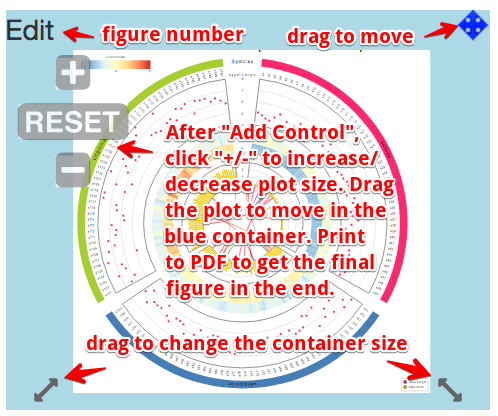
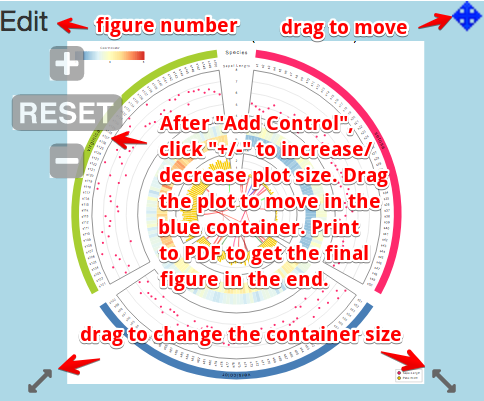
Add dist/savehtml.css, dist/FileSaver.min.js

diff --git a/index.html b/index.html
@@ -23,16 +23,17 @@
 	<script src="dist/gridstack.jQueryUI.js"></script>
 	<script src="dist/dropzone.js"></script>
 	<script src="dist/svg-pan-zoom.js"></script>
+	<script src="dist/FileSaver.min.js"></script>
 
 	<style type="text/css">
 		.dropzone {
 			background: white;
 			border-radius: 5px;
-			padding: 0px 10px;
+			padding: 10px 10px;
 			border: 2px dashed rgb(0, 135, 247);
 			border-image: none;
 			max-width: 200px;
-			height: 180px;
+			height: 200px;
 			margin-left: auto;
 			margin-right: auto;
 		}
@@ -41,7 +42,7 @@
 		}
 
 		.trash {
-			height: 160px;
+			height: 200px;
 //			background-color: #f5f5f5 !important;
 		}
 
@@ -81,24 +82,26 @@
 <body>
 <div class="container">
 	<div class="row no-print">
+		<div align=center>
+			<a class="btn btn-default" id="add-new-Plot">Add Plot</a>
+			<a class="btn btn-default" id="add-new-Control">Add Control</a>
+			<a class="btn btn-default" id="save-HTML">Save HTML</a>
+			<a class="btn btn-default" href=demo1.html>Demo1</a>
+			<a class="btn btn-default" href=demo2.html>Demo2</a>
+			<a class="btn btn-default" href=demo3.html>Demo3</a>
+			<a class="btn btn-default" href=https://baohongz.github.io/canvasDesigner/demo_video.html>Help</a>
+		</div>
+	</div>
+	<div class="row no-print" style="padding-top:5px">
 		<div align=center class="col-xs-4">
 			<FORM class="dropzone needsclick" id="dropzoneUpload" action="/">
 			<div class="dz-message needsclick">Drop a SVG file here or click to upload. Then click "Add Plot" to add to the designing canvas. Note: use Inkscape to convert PNG, JPG, GIF, TIFF to SVG format.</div>
 			</FORM>
-			<a href=demo1.html>Demo1</a> | <a href=demo2.html>Demo2 | <a href=demo3.html>Demo3</a>
 		</div>
 		<div align=center class="col-xs-4">
-			<table border=0>
-			<tr>
-			<td><a class="btn btn-default" id="add-new-Plot">Add Plot</a></td>
-			<td><a class="btn btn-default" id="add-new-Control">Add Control</a></td>
-			</tr>
-			<tr>
-			<td style="padding-top: 8px;" colspan=2><div class="trash"></div></td>
-			</tr>
-			</table>
+			<div class="trash"></div>
 		</div>
-		<div align=center class="col-xs-4"><a href=demo_video.html><img width=240 height=200 src=canvasDesigner_help.png></a></div>
+		<div align=center class="col-xs-4"><img width=240 height=200 src=canvasDesigner_help.png></div>
 	</div> 
 	<div class="row"> <div class="grid-stack">
 	</div></div>
@@ -203,6 +206,7 @@
 
 		$('#add-new-Plot').click(this.addNewWidget);
 
+
 		$('#add-new-Control').click( function () {
 			for (var i=1; i<num; i++) {
 				var myImg = "image"+i;
@@ -224,6 +228,13 @@
 					controlIconsEnabled:true
 				});
 			}
+		});
+
+		$('#save-HTML').click( function () {
+			var text = $("#textarea").val();
+			var filename = $("#input-fileName").val()
+			var blob = new Blob([text], {type: "text/plain;charset=utf-8"});
+			saveAs(blob, filename+".txt");
 		});
 	});
 

diff --git a/dist/FileSaver.min.js b/dist/FileSaver.min.js
@@ -1,0 +1,2 @@
+/*! @source http://purl.eligrey.com/github/FileSaver.js/blob/master/FileSaver.js */
+var saveAs=saveAs||function(e){"use strict";if(typeof e==="undefined"||typeof navigator!=="undefined"&&/MSIE [1-9]\./.test(navigator.userAgent)){return}var t=e.document,n=function(){return e.URL||e.webkitURL||e},r=t.createElementNS("http://www.w3.org/1999/xhtml","a"),o="download"in r,a=function(e){var t=new MouseEvent("click");e.dispatchEvent(t)},i=/constructor/i.test(e.HTMLElement)||e.safari,f=/CriOS\/[\d]+/.test(navigator.userAgent),u=function(t){(e.setImmediate||e.setTimeout)(function(){throw t},0)},s="application/octet-stream",d=1e3*40,c=function(e){var t=function(){if(typeof e==="string"){n().revokeObjectURL(e)}else{e.remove()}};setTimeout(t,d)},l=function(e,t,n){t=[].concat(t);var r=t.length;while(r--){var o=e["on"+t[r]];if(typeof o==="function"){try{o.call(e,n||e)}catch(a){u(a)}}}},p=function(e){if(/^\s*(?:text\/\S*|application\/xml|\S*\/\S*\+xml)\s*;.*charset\s*=\s*utf-8/i.test(e.type)){return new Blob([String.fromCharCode(65279),e],{type:e.type})}return e},v=function(t,u,d){if(!d){t=p(t)}var v=this,w=t.type,m=w===s,y,h=function(){l(v,"writestart progress write writeend".split(" "))},S=function(){if((f||m&&i)&&e.FileReader){var r=new FileReader;r.onloadend=function(){var t=f?r.result:r.result.replace(/^data:[^;]*;/,"data:attachment/file;");var n=e.open(t,"_blank");if(!n)e.location.href=t;t=undefined;v.readyState=v.DONE;h()};r.readAsDataURL(t);v.readyState=v.INIT;return}if(!y){y=n().createObjectURL(t)}if(m){e.location.href=y}else{var o=e.open(y,"_blank");if(!o){e.location.href=y}}v.readyState=v.DONE;h();c(y)};v.readyState=v.INIT;if(o){y=n().createObjectURL(t);setTimeout(function(){r.href=y;r.download=u;a(r);h();c(y);v.readyState=v.DONE});return}S()},w=v.prototype,m=function(e,t,n){return new v(e,t||e.name||"download",n)};if(typeof navigator!=="undefined"&&navigator.msSaveOrOpenBlob){return function(e,t,n){t=t||e.name||"download";if(!n){e=p(e)}return navigator.msSaveOrOpenBlob(e,t)}}w.abort=function(){};w.readyState=w.INIT=0;w.WRITING=1;w.DONE=2;w.error=w.onwritestart=w.onprogress=w.onwrite=w.onabort=w.onerror=w.onwriteend=null;return m}(typeof self!=="undefined"&&self||typeof window!=="undefined"&&window||this.content);if(typeof module!=="undefined"&&module.exports){module.exports.saveAs=saveAs}else if(typeof define!=="undefined"&&define!==null&&define.amd!==null){define("FileSaver.js",function(){return saveAs})}

diff --git a/dist/svg-pan-zoom.js b/dist/svg-pan-zoom.js
@@ -63,7 +63,7 @@ module.exports = {
 , _createZoomIn: function(instance) {
     var zoomIn = document.createElementNS(SvgUtils.svgNS, 'g');
     zoomIn.setAttribute('id', 'svg-pan-zoom-zoom-in');
-    zoomIn.setAttribute('transform', 'translate('+(45.5 - instance.width)+' -160) scale(0.015)');  //Baohong: changed the postion of controls
+    zoomIn.setAttribute('transform', 'translate(30.5 5) scale(0.015)');
     zoomIn.setAttribute('class', 'svg-pan-zoom-control');
     zoomIn.addEventListener('click', function() {instance.getPublicInstance().zoomIn()}, false)
     zoomIn.addEventListener('touchstart', function() {instance.getPublicInstance().zoomIn()}, false)
@@ -88,7 +88,7 @@ module.exports = {
     // reset
     var resetPanZoomControl = document.createElementNS(SvgUtils.svgNS, 'g');
     resetPanZoomControl.setAttribute('id', 'svg-pan-zoom-reset-pan-zoom');
-    resetPanZoomControl.setAttribute('transform', 'translate('+(20-instance.width)+' -130) scale(0.4)');
+    resetPanZoomControl.setAttribute('transform', 'translate(5 35) scale(0.4)');
     resetPanZoomControl.setAttribute('class', 'svg-pan-zoom-control');
     resetPanZoomControl.addEventListener('click', function() {instance.getPublicInstance().reset()}, false);
     resetPanZoomControl.addEventListener('touchstart', function() {instance.getPublicInstance().reset()}, false);
@@ -115,10 +115,10 @@ module.exports = {
   }
 
 , _createZoomOut: function(instance){
-    // Baohong:  zoom out
+    // zoom out
     var zoomOut = document.createElementNS(SvgUtils.svgNS, 'g');
     zoomOut.setAttribute('id', 'svg-pan-zoom-zoom-out');
-    zoomOut.setAttribute('transform', 'translate('+(45.5 - instance.width)+' -95) scale(0.015)');
+    zoomOut.setAttribute('transform', 'translate(30.5 70) scale(0.015)');
     zoomOut.setAttribute('class', 'svg-pan-zoom-control');
     zoomOut.addEventListener('click', function() {instance.getPublicInstance().zoomOut()}, false);
     zoomOut.addEventListener('touchstart', function() {instance.getPublicInstance().zoomOut()}, false);

diff --git a/dist/savehtml.css b/dist/savehtml.css
@@ -1,0 +1,27 @@
+.grid-stack .grid-stack-item .grid-stack-item-content,
+.grid-stack .grid-stack-item .placeholder-content {
+	left: 0px;
+	right: 0px;
+	padding: 0px;
+	overflow: hidden;
+}
+
+.grid-stack {
+	background: white;
+}
+
+.grid-stack-item-content {
+	background: white;
+	text-align: center;
+}
+
+.svg-pan-zoom-control {display: none;}
+.no-print {display: none;}
+#dragHandle {display: none;}
+
+#dragHandle {
+	z-index: 90; width:16px; height: 16px; border-bottom: 0px solid #44c756;
+	border-left: 0px solid #44c765; position: absolute;
+	right: 0px; top: 0px; cursor: move;
+	background-image: url("move.png");
+}
